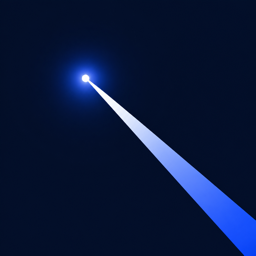
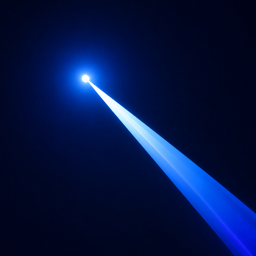
style(brand): enrich Night Signal gradients

Changed region(s): [[0.125, 0.0938, 1.0, 1.0]]

diff --git a/assets/brand/README.md b/assets/brand/README.md
@@ -10,12 +10,13 @@ concept board approved by the user. Its SHA-256 digest is
[1 lines of base64/hex data omitted]
 
 The mark uses a midnight field, one off-center blue-white source, and a single
-ice-blue-to-cobalt beam. The production palette intentionally contains no
-green, teal, pink, purple, violet, lavender, or periwinkle.
+ice-blue-to-cobalt beam. The production palette is emphatically blue, with
+subtle sapphire/indigo depth and no pink, hot magenta, or fuchsia.
 
-The concept board remains the historical selection reference. The production
-assets incorporate the user's follow-up color correction to use blue and white
-only.
+The concept board remains the historical selection reference. The user later
+clarified that restrained cool violet is welcome when it improves the design;
+the objection was to the all-pink/purple chroma-key screen, not nuanced shading
+inside a primarily blue identity.
 
 Derived assets:
 
@@ -34,4 +35,4 @@ appearance. The transparent master's SHA-256 digest is
 
 The master was generated from the user-approved concept board on 2026-08-02.
 Its SHA-256 digest is
[2 lines of base64/hex data omitted]

diff --git a/design-qa.md b/design-qa.md
@@ -15,8 +15,8 @@ at `assets/brand/reference/straylight-night-signal-selected-board.png`.
 - The visible identity uses a midnight sidebar, blue interaction accents, and
   a readable serif system stack for `Straylight`; green is no longer used as a
   core web brand color.
-- The production assets use only midnight navy, neutral/azure blue, and white;
-  no visible pink, purple, violet, lavender, or periwinkle remains.
+- The production assets stay blue-dominant while using layered sapphire/cobalt
+  shading and internal beam gradations; no visible pink or hot magenta remains.
 - The 64 px favicon remains recognizable when reduced to 32 px and 16 px.
 - The login implementation was captured at
   `/Users/aether/.codex/visualizations/2026/08/02/019fc465-35c6-7671-ae30-6cc291b72b59/straylight-web-brand-login.png`.
